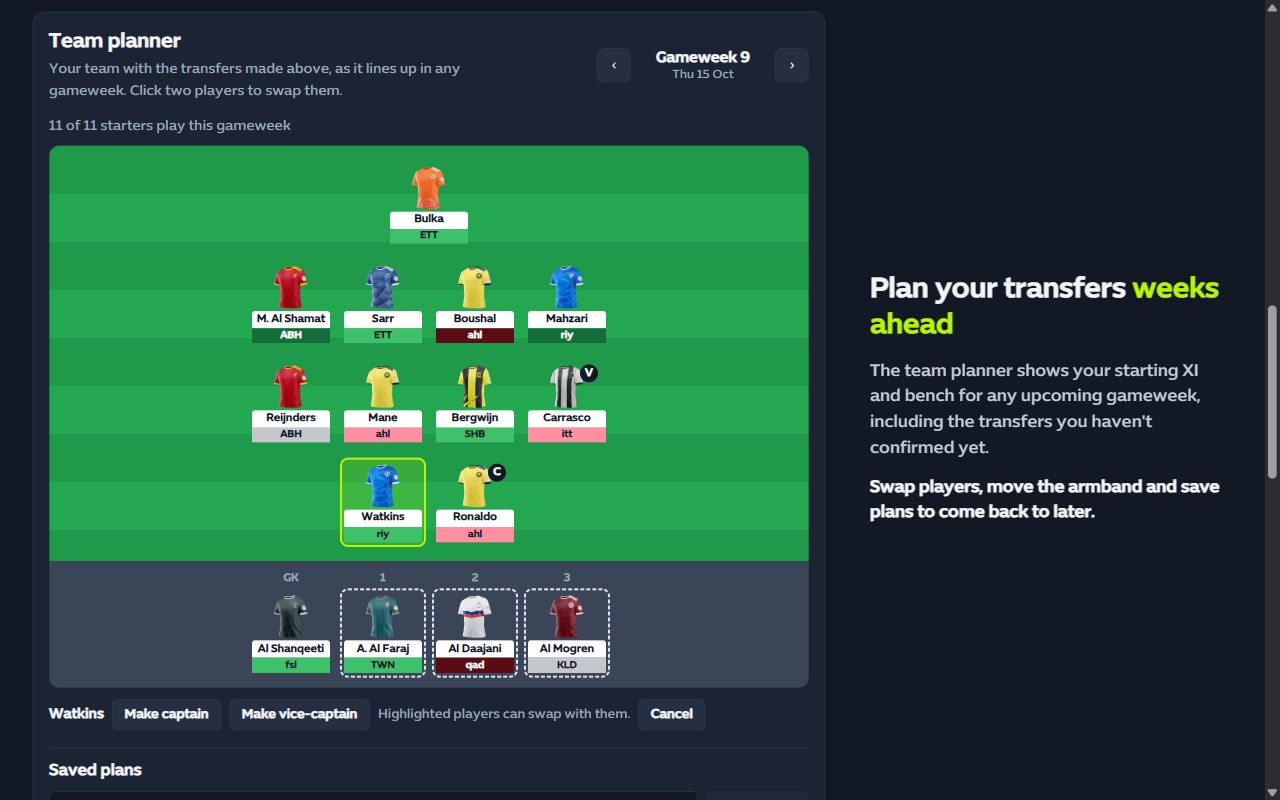
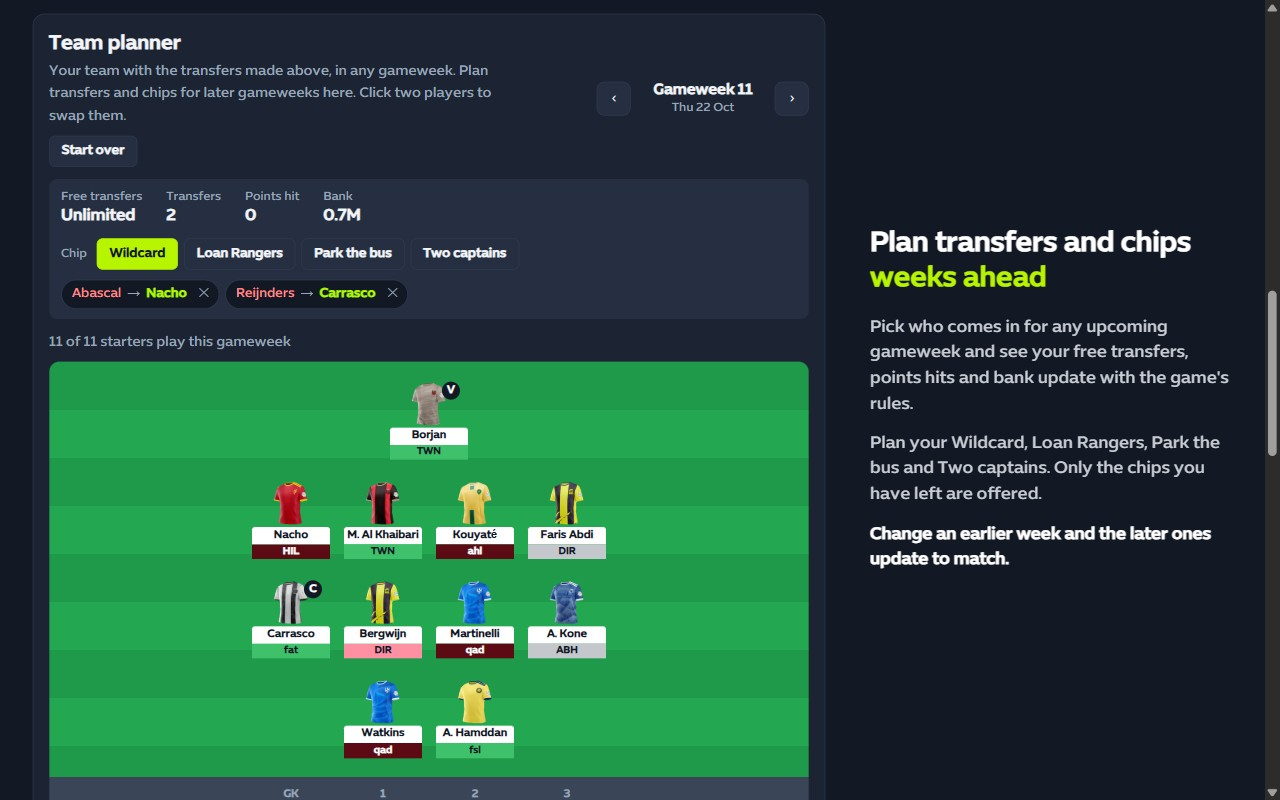
Release 1.2.0: multi-gameweek team planner
README, store listing and privacy policy describe planning transfers and
chips over upcoming gameweeks, the extra team data the planner reads
(selling prices, bank, free transfers, chips) and the unsaved plan kept in
the browser. New store screenshot 3.

Claude-Session: https://claude.ai/code/session_011j4mjrzNHuT4iQn3hqGWFJ

diff --git a/store/listing.md b/store/listing.md
@@ -30,10 +30,14 @@ A small badge on each player's shirt shows which way his price last moved: green
 LOOK AHEAD TO ANY GAMEWEEK
 Step forward through the coming gameweeks on Pick Team: every player on your pitch shows who they face that week, colour-coded by difficulty. Spot the weak weeks before you pick your captain.
 
-TEAM PLANNER
-Below the pitch on the Transfers screen, see your starting XI and bench for any upcoming gameweek — including the transfers you've made but not confirmed yet, so you can see how a transfer affects your team before you commit.
-• Every player shows their fixture for that week.
-• Swap players between the team and the bench, and move the captain's armband.
+TEAM PLANNER FOR THE WEEKS AHEAD
+Below the pitch on the Transfers screen, plan your transfers and chips for every upcoming gameweek, not just the next one.
+• Pick a player and choose who replaces him: search, and sort by price, points or the easiest fixtures. Players you can't afford or who would break the 3-per-club limit are greyed out.
+• Each gameweek shows your free transfers, points hits and bank, worked out with the game's rules (free transfers roll over up to 5, extra transfers cost 4 points).
+• Plan your chips: Wildcard, Loan Rangers, Park the bus and Two captains. Only the chips you haven't played yet are offered, in the gameweeks they can be played.
+• Change your mind about an earlier gameweek and the later ones update to match.
+• Transfers you make on the site but haven't confirmed are added to the plan too.
+• See your starting XI and bench for each gameweek with every player's fixture, swap players and move the captain's armband.
 • Save plans with a name and come back to them later. Plans are kept in your browser.
 
 POSITION-AWARE FIXTURE DIFFICULTY
@@ -56,7 +60,7 @@ ARABIC AND ENGLISH
 Works on both the Arabic and English versions of the site, and speaks the site's language.
 
 PRIVACY
-No accounts, no tracking, no data collected. The extension only runs on the SPL Fantasy website. The team planner reads your team from the site to show it to you — it never leaves your browser. Your rating edits and plans are stored in your own browser.
+No accounts, no tracking, no data collected. The extension only runs on the SPL Fantasy website. The team planner reads your team from the site (players, prices, bank, free transfers and chips) to plan with it — it never leaves your browser. Your rating edits and plans are stored in your own browser.
 
 This is an unofficial, fan-made tool. It is not affiliated with, endorsed by or connected to the Saudi Pro League or SPL Fantasy.
 ```
@@ -66,7 +70,7 @@ This is an unofficial, fan-made tool. It is not affiliated with, endorsed by or 
 - Screenshots (1280×800 JPEG, upload in this order; the store allows 5):
   1. `store/screenshots/1-fixture-strips.jpeg` — Pick Team pitch with coloured strips and price-change arrows (personal leagues sidebar replaced by a caption with both legends)
   2. `store/screenshots/2-gameweek-browser.jpeg` — Pick Team browsed ahead to Gameweek 10
-  3. `store/screenshots/3-team-planner.jpeg` — the team planner on Transfers, a player selected with swap targets highlighted
+  3. `store/screenshots/3-team-planner.jpeg` — the team planner on Transfers: Gameweek 11 with a Wildcard, planned transfers and the free transfers / hits / bank summary
   4. `store/screenshots/4-difficulty-attackers.jpeg` — Difficulty tab, Attackers, next 5 rounds
   5. `store/screenshots/5-edit-ratings.jpeg` — the ratings editor open
 - Small promo tile (440×280): optional
@@ -76,13 +80,13 @@ This is an unofficial, fan-made tool. It is not affiliated with, endorsed by or 
 ## Privacy practices tab
 
 **Single purpose:**
-Helps users plan their SPL Fantasy team: shows each player's upcoming fixtures and their difficulty, and which way his price last moved, directly on the SPL Fantasy website, a planner showing the user's team in upcoming gameweeks, and a full-season fixture difficulty table.
+Helps users plan their SPL Fantasy team: shows each player's upcoming fixtures and their difficulty, and which way his price last moved, directly on the SPL Fantasy website, a planner for the user's transfers, chips and lineup in upcoming gameweeks, and a full-season fixture difficulty table.
 
 **Permission justification — host permissions** (`fantasy.spl.com.sa`, `*.fantasy.spl.com.sa`):
-The extension adds fixture strips, price-change arrows, a gameweek browser, a team planner and a difficulty table to SPL Fantasy pages. It reads the site's public fixtures, teams and player price-history API to build them, and — on the Transfers page, for a signed-in user — the user's own team from the site, so the planner can show it. The toolbar page reads the same public API. It does not run on any other site.
+The extension adds fixture strips, price-change arrows, a gameweek browser, a team planner and a difficulty table to SPL Fantasy pages. It reads the site's public fixtures, teams and player price-history API to build them, and — on the Transfers page, for a signed-in user — the user's own team from the site (players, selling prices, bank, free transfers and chips), so the planner can plan with it. The toolbar page reads the same public API. It does not run on any other site.
 
 **Permission justification — storage:**
-Saves the user's own edits to the team difficulty ratings (a few numbers per team, synced across the user's devices via Chrome sync) and the team plans they choose to save (kept locally in the browser). Nothing is sent to the developer.
+Saves the user's own edits to the team difficulty ratings (a few numbers per team, synced across the user's devices via Chrome sync) and the user's team plans: the one they're working on and the ones they save by name (kept locally in the browser). Nothing is sent to the developer.
 
 **Remote code:** No, I am not using remote code. (The extension downloads a JSON data file of default team ratings; no scripts are loaded remotely.)
 

diff --git a/README.md b/README.md
@@ -5,7 +5,7 @@ Unofficial Chrome extension for [SPL Fantasy](https://fantasy.spl.com.sa/) (Arab
 - **Next 5 fixtures on every player** — on Pick Team and Transfers, each player row shows their team's next five gameweeks (UPPERCASE = home, lowercase = away). A double gameweek shows both opponents stacked in that week's slot; a blank one shows "–".
 - **Price-change arrow** — a badge on each player's shirt shows his last price change: green ▲ rise, red ▼ fall, grey = unchanged this season.
 - **Gameweek browser** — on Pick Team, step through the coming gameweeks; each player shows that week's fixture, coloured by difficulty.
-- **Team planner** — below the pitch on Transfers: the XI and bench for any upcoming gameweek, following unconfirmed transfers (a player bought takes the sold player's slot). Swap players, move the armband, and save named plans (kept in the browser).
+- **Team planner** — below the pitch on Transfers: plan transfers and chips for every upcoming gameweek. Each gameweek shows the XI and bench, free transfers, points hits and bank; a player picker (search, sort by price, points or fixtures) makes transfers, and chips (Wildcard, Loan Rangers, Park the bus, Two captains) are offered only while unplayed. Changing an earlier gameweek updates later transfers to match. The coming gameweek also follows the site's unconfirmed transfers. Swap players, move the armband, and save named plans (kept in the browser; the unsaved plan survives a reload).
 - **Position-aware fixture difficulty** — each fixture is coloured 1 (easy) to 5 (hard) from team ratings based on team stats: attackers are rated against the opponent's defence, defenders against the opponent's attack, with separate home and away values.
 - **Full-season difficulty table** — a "Difficulty" tab added to the site's menu (also opened by the toolbar icon): every team × remaining round, attacker/defender toggle, next 5 / 10 / rest of season, sorted easiest first.
 - **Editable ratings** — users can adjust any team's ratings from the Difficulty tab ("Edit ratings"); changes recolour everything instantly and can be reset to the defaults.
@@ -23,7 +23,7 @@ npm run package    # build + zip for the Chrome Web Store -> release/
 
 - `src/content/` — content script: fixture strips on player rows, the Pick Team gameweek browser, the Transfers team planner, the injected Difficulty tab
 - `src/ui/` — fixture strip, price-change badge, gameweek stepper, season grid + ratings editor, shared difficulty colours, `i18n.ts` (English/Arabic text)
-- `src/planner/` — lineup rules (swaps, armbands, following transfers) and saved plans
+- `src/planner/` — lineup rules (swaps, armbands), `seasonPlan.ts` (replays a plan gameweek by gameweek: transfers, chips, free transfers, hits, bank) and saved plans
 - `src/api/` — the site's public API, players' price history (`priceHistory.ts`), plus the signed-in user's team (`myTeam.ts`)
 - `src/fdr/schedule.ts` — remaining fixtures by team and open gameweek
 - `src/fdr/difficulty.ts` — difficulty lookup from team ratings

diff --git a/PRIVACY.md b/PRIVACY.md
@@ -1,6 +1,6 @@
 # Privacy Policy — SPL Fantasy Helper
 
-_Last updated: 12 October 2026_
+_Last updated: 13 October 2026_
 
 SPL Fantasy Helper is an unofficial browser extension that adds fixture
 information and a team planner to the SPL Fantasy website (fantasy.spl.com.sa).
@@ -21,7 +21,10 @@ about you or your team is ever sent to us or to anyone else.
   Fantasy and open the Transfers page, the extension asks the site for your
   team (your players, their order on the bench, your captain). It does this
   the same way the site does, through your existing login session; it never
-  sees or handles your password. The site's answer also includes your account
+  sees or handles your password. The answer also includes what each player
+  would sell for, the money in your bank, your free transfers and which chips
+  you have left — the planner uses these to work out your budget, points hits
+  and the chips you can still play. The site's answer also includes your account
   details such as your name and email address — the extension ignores them and
   uses only your team ID. Your team is used only to draw the planner in your
   browser.
@@ -34,9 +37,11 @@ Everything is stored with Chrome's built-in extension storage, on your device:
   values (numbers from 1 to 5 per team) are saved in `chrome.storage.sync`. If
   you're signed in to Chrome with sync turned on, Chrome syncs them across your
   own devices. Use "Reset all to default" in the ratings editor to delete them.
-- **Your saved plans** — if you save a plan in the team planner, its name, the
-  players in it (as player IDs), your lineup and captain, and your team ID are
-  saved in `chrome.storage.local`, in this browser only. Use "Delete" next to a
+- **Your plans** — what you plan in the team planner (for each gameweek: the
+  transfers as player IDs, the chip, your lineup and captain) is saved with your
+  team ID in `chrome.storage.local`, in this browser only: the plan you're
+  working on, so it survives a reload, and any plans you save by name. Use
+  "Start over" to clear the plan you're working on and "Delete" next to a saved
   plan to remove it.
 
 Removing the extension deletes all of it. None of it is ever sent to us.
